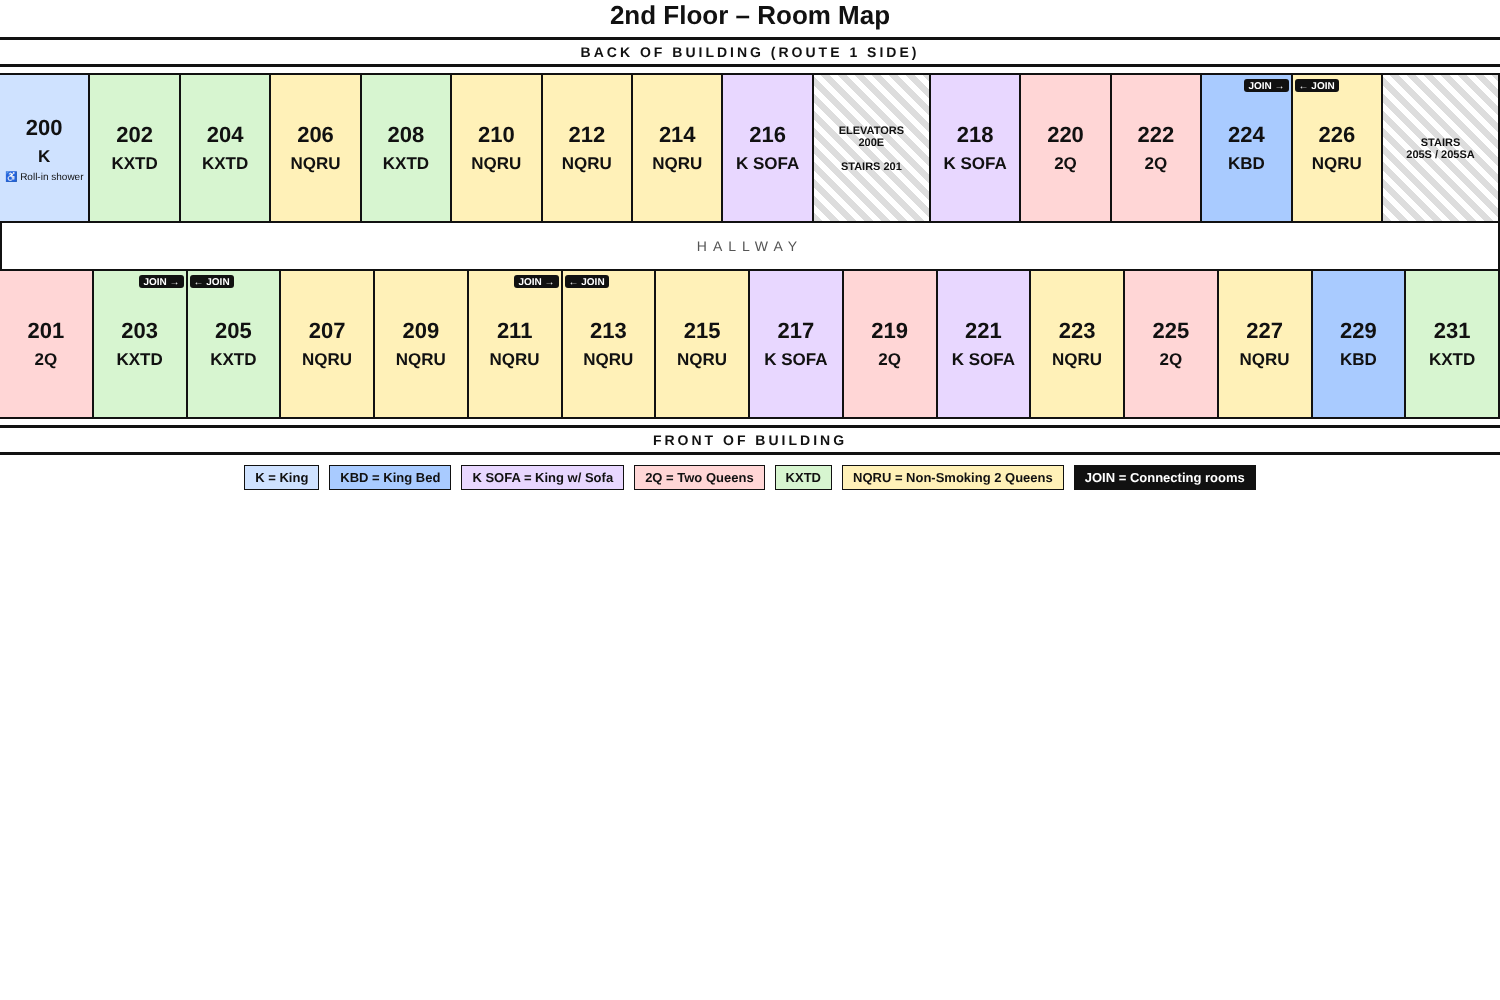
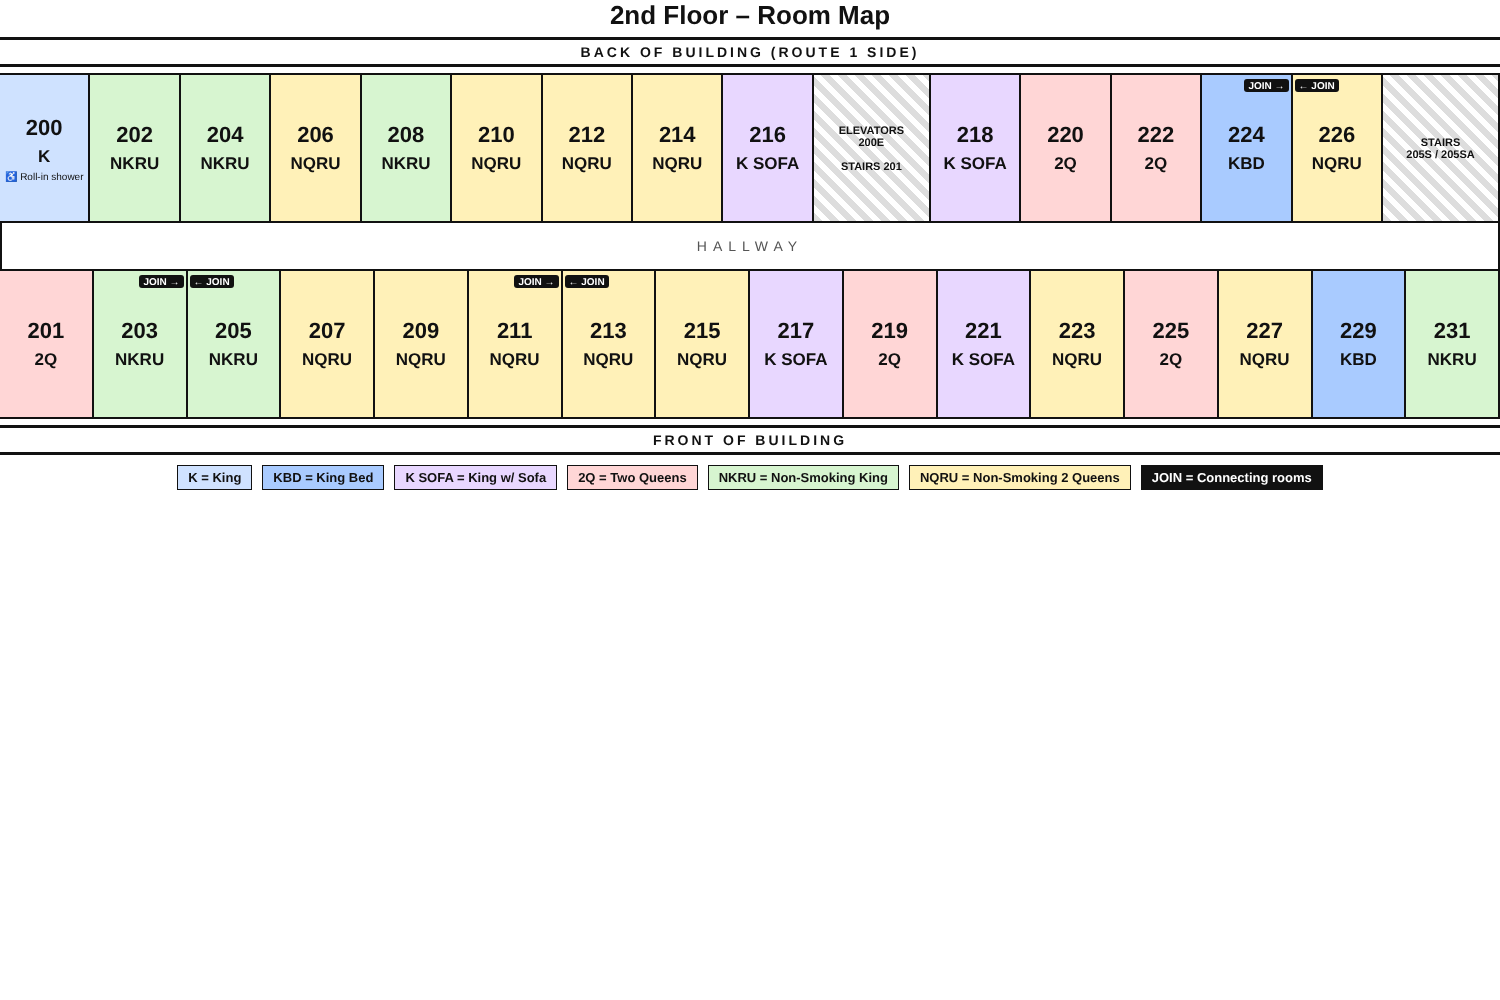
Correct KXTD to NKRU (non-smoking king)
Claude-Session: https://claude.ai/code/session_01VVtuZvAg5iqgUpEC5mHJcL

diff --git a/floor-map/floor2.html b/floor-map/floor2.html
@@ -21,10 +21,10 @@ h1{margin:0 0 4px;font-size:26px;text-align:center}
 <div class="side">BACK OF BUILDING (ROUTE 1 SIDE)</div>
 <div class="row">
  <div class="room K"><div class="num">200</div><div class="type">K</div><div class="note">♿ Roll-in shower</div></div>
- <div class="room KXTD"><div class="num">202</div><div class="type">KXTD</div></div>
- <div class="room KXTD"><div class="num">204</div><div class="type">KXTD</div></div>
+ <div class="room KXTD"><div class="num">202</div><div class="type">NKRU</div></div>
+ <div class="room KXTD"><div class="num">204</div><div class="type">NKRU</div></div>
  <div class="room SXQL"><div class="num">206</div><div class="type">NQRU</div></div>
- <div class="room KXTD"><div class="num">208</div><div class="type">KXTD</div></div>
+ <div class="room KXTD"><div class="num">208</div><div class="type">NKRU</div></div>
  <div class="room SXQL"><div class="num">210</div><div class="type">NQRU</div></div>
  <div class="room SXQL"><div class="num">212</div><div class="type">NQRU</div></div>
  <div class="room SXQL"><div class="num">214</div><div class="type">NQRU</div></div>
@@ -40,8 +40,8 @@ h1{margin:0 0 4px;font-size:26px;text-align:center}
 <div class="hall">HALLWAY</div>
 <div class="row">
  <div class="room Q2"><div class="num">201</div><div class="type">2Q</div></div>
- <div class="room KXTD"><span class="join jr">JOIN →</span><div class="num">203</div><div class="type">KXTD</div></div>
- <div class="room KXTD"><span class="join jl">← JOIN</span><div class="num">205</div><div class="type">KXTD</div></div>
+ <div class="room KXTD"><span class="join jr">JOIN →</span><div class="num">203</div><div class="type">NKRU</div></div>
+ <div class="room KXTD"><span class="join jl">← JOIN</span><div class="num">205</div><div class="type">NKRU</div></div>
  <div class="room SXQL"><div class="num">207</div><div class="type">NQRU</div></div>
  <div class="room SXQL"><div class="num">209</div><div class="type">NQRU</div></div>
  <div class="room SXQL"><span class="join jr">JOIN →</span><div class="num">211</div><div class="type">NQRU</div></div>
@@ -54,12 +54,12 @@ h1{margin:0 0 4px;font-size:26px;text-align:center}
  <div class="room Q2"><div class="num">225</div><div class="type">2Q</div></div>
  <div class="room SXQL"><div class="num">227</div><div class="type">NQRU</div></div>
  <div class="room KBD"><div class="num">229</div><div class="type">KBD</div></div>
- <div class="room KXTD"><div class="num">231</div><div class="type">KXTD</div></div>
+ <div class="room KXTD"><div class="num">231</div><div class="type">NKRU</div></div>
 </div>
 <div class="side">FRONT OF BUILDING</div>
 <div class="legend">
  <span class="K">K = King</span><span class="KBD">KBD = King Bed</span><span class="KSOFA">K SOFA = King w/ Sofa</span>
- <span class="Q2">2Q = Two Queens</span><span class="KXTD">KXTD</span><span class="SXQL">NQRU = Non-Smoking 2 Queens</span>
+ <span class="Q2">2Q = Two Queens</span><span class="KXTD">NKRU = Non-Smoking King</span><span class="SXQL">NQRU = Non-Smoking 2 Queens</span>
  <span style="background:#111;color:#fff">JOIN = Connecting rooms</span>
 </div>
 </body></html>
